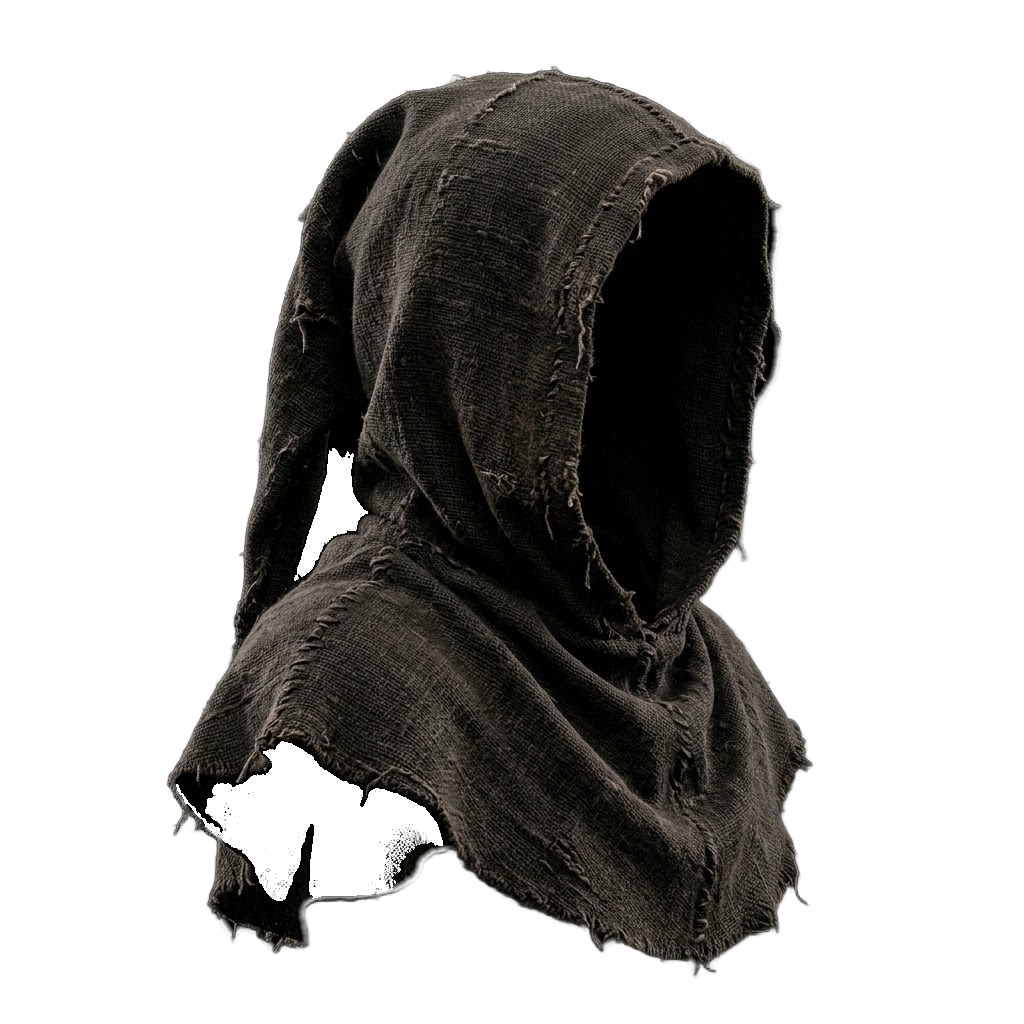
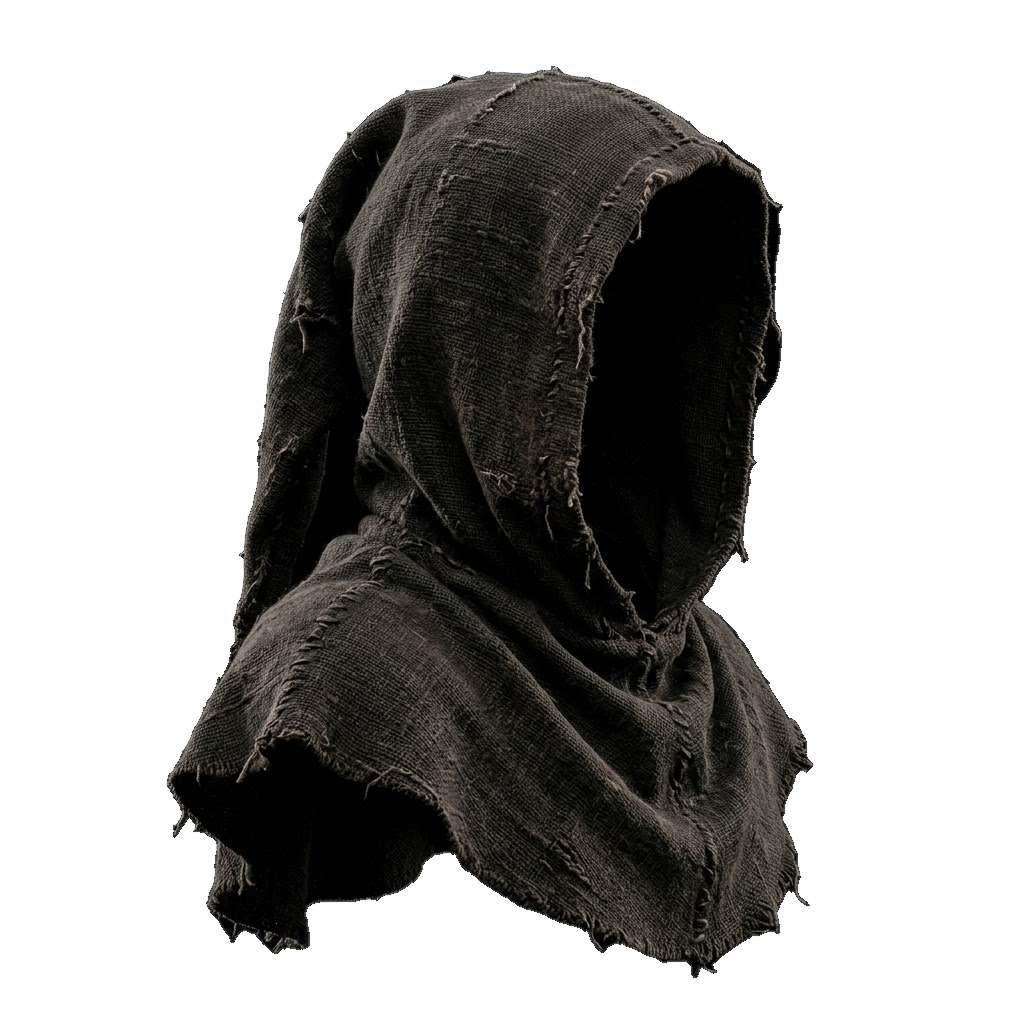
v7.05: interno nero dei cappucci reso completamente opaco e solido

diff --git a/index.html b/index.html
@@ -2134,7 +2134,7 @@ body::before {
     <div class="mk-vitals" style="margin-top:8px">
       <div class="mk-vital">
         <span class="mk-vital-cap">Versione</span>
-        <div id="app-version" class="mk-vital-val" style="color:var(--gold-light)">7.04</div>
+        <div id="app-version" class="mk-vital-val" style="color:var(--gold-light)">7.05</div>
       </div>
       <div class="mk-vital">
         <span class="mk-vital-cap">Rilascio</span>
@@ -2171,6 +2171,6 @@ body::before {
   <div class="modal-box" id="detail-modal-box"></div>
 </div>
 
-<script type="module" src="js/main.js?v=7.04"></script>
+<script type="module" src="js/main.js?v=7.05"></script>
 </body>
 </html>

diff --git a/js/data.js b/js/data.js
@@ -5,7 +5,7 @@
  ============================================================ */
 
 /* ── App info ── */
-export const APP_VERSION = "7.04";
+export const APP_VERSION = "7.05";
 export const APP_RELEASE = "09/11/2026";
 export const APP_DEV = "djiglio.ai";
 
